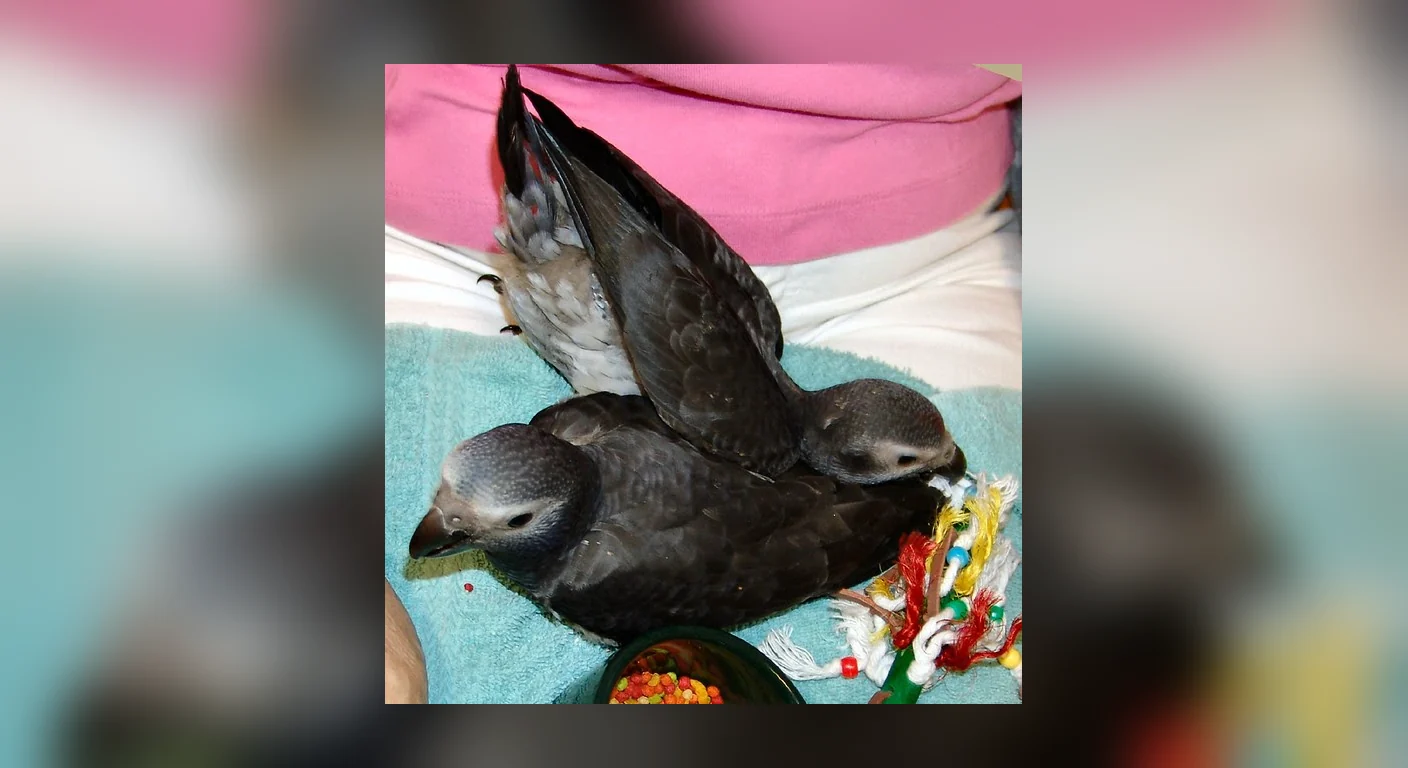
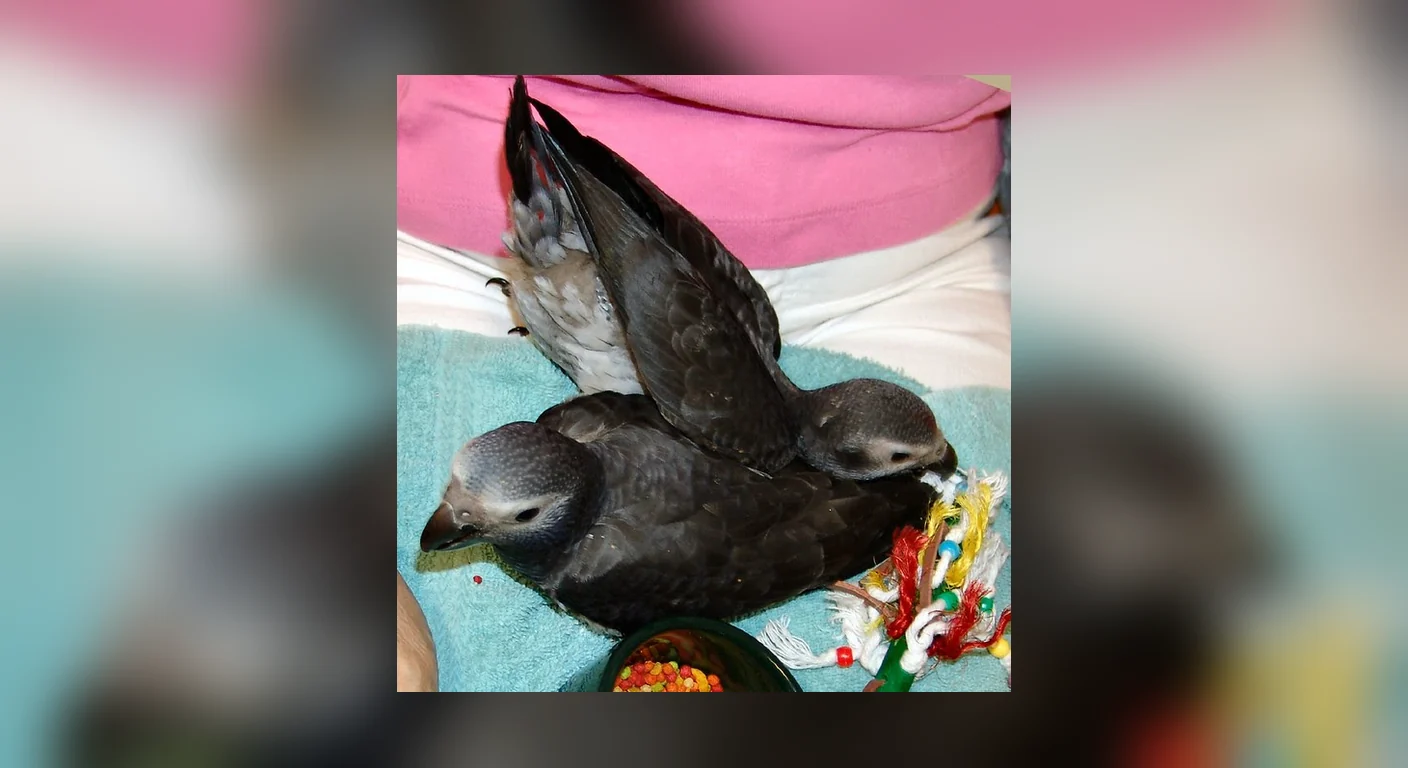
feat(images): distinct taller mobile frame for bird-portrait OG photos (.og-tall full-bleed 4:5, dual-safe blur-fill) + lock it as the standing default for all for-sale/comparison builds
- reframe_og.py: --mobcrop 4:5 makes subject dual-safe (survives desktop 16:9 AND mobile 4:5)
- 3 Timneh portraits regenerated dual-safe; .og-tall mobile full-bleed 4:5 (no h-scroll, verified)
- IMAGE-DESIGNS.md §7 + for-sale skill: LOCKED default OG pipeline for future builds

Changed region(s): [[0.25, 0.0625, 0.75, 0.9375], [0.5625, 0.3125, 0.6562, 0.3438]]

diff --git a/scripts/reframe_og.py b/scripts/reframe_og.py
@@ -23,11 +23,11 @@ from PIL import Image, ImageOps, ImageFilter, ImageEnhance
 
 def load(p): return Image.open(p).convert("RGB")
 
-def blurfill(im, W, H, blur):
+def blurfill(im, W, H, blur, fgw, fgh):
     bg = ImageOps.fit(im, (W, H), Image.LANCZOS)               # cover
     bg = bg.filter(ImageFilter.GaussianBlur(blur))
     bg = ImageEnhance.Brightness(bg).enhance(0.92)             # settle it behind the subject
-    fg = im.copy(); fg.thumbnail((W, H), Image.LANCZOS)        # contain, full height
+    fg = im.copy(); fg.thumbnail((fgw, fgh), Image.LANCZOS)    # contain within the subject-safe box
     canvas = bg.copy()
     canvas.paste(fg, ((W - fg.width) // 2, (H - fg.height) // 2))
     return canvas
@@ -72,9 +72,16 @@ def main():
     ap.add_argument("--blur", type=int, default=30)
     ap.add_argument("--sib", default=""); ap.add_argument("--sibw", type=int, default=760); ap.add_argument("--sibh", type=int, default=415)
     ap.add_argument("--maxkb", type=int, default=95)
+    # dual-safe: constrain the sharp subject so a later mobile 4:5 cover crop (central 4/5*H wide)
+    # never clips it. Default full box; pass --mobcrop 4:5 to auto-set, or --fgmaxw explicitly.
+    ap.add_argument("--mobcrop", default=""); ap.add_argument("--fgmaxw", type=int, default=0)
     a = ap.parse_args()
+    fgw, fgh = a.w, a.h
+    if a.fgmaxw: fgw = a.fgmaxw
+    elif a.mobcrop:
+        rw, rh = (int(x) for x in a.mobcrop.split(":")); fgw = int(a.h * rw / rh)
     im = load(a.src)
-    fn = {"blurfill": lambda: blurfill(im, a.w, a.h, a.blur),
+    fn = {"blurfill": lambda: blurfill(im, a.w, a.h, a.blur, fgw, fgh),
           "contain":  lambda: contain(im, a.w, a.h),
           "topcover": lambda: topcover(im, a.w, a.h)}[a.style]
     out = fn()

diff --git a/.claude/skills/cag-for-sale-page-builder/SKILL.md b/.claude/skills/cag-for-sale-page-builder/SKILL.md
@@ -89,7 +89,8 @@ Link-First anchors (sentence START, never mid/end; branded ACTION anchors on CTA
 - **Dial TOC (desktop) + jump-rail (mobile)** — same mechanics as comparison pages, NEW for-sale style (distinct accent/motif; scroll-margin offset for the mobile rail; `scroll-behavior: auto`).
 - **TOC + KeyTakeaway** — 3 breeder-approved NEW designs each (picked from 5), completely different from cag-toc-v1/v2/v3 + cag-key-takeaway-v2.
 - **Orange stacking tables** — the 5-parrot table set (Congo/Timneh/Macaw/Cockatoo/Amazon) added to the required orange designs; stack on mobile like the comparison cluster; species markers use `/emoji/cag-congo.png` + `/emoji/cag-timneh.png` imgs — **NEVER 🦜**.
-- **In-body images** — uniform `.sec-img.inf-img` 760px 16:9 box for EVERY OG photo AND infographic (per-image `object-position`, <100 KB WebP + `-760.webp` sibling + srcset). **Every H2, H3, and key H4 gets an image** (OG or infographic/AI). Rule 50b alt rotation — no two images share an alt.
+- **In-body images** — uniform `.sec-img.inf-img` 760px 16:9 box for EVERY OG photo AND infographic (<100 KB WebP + `-760.webp` sibling + srcset). **Every H2, H3, and key H4 gets an image** (OG or infographic/AI). Rule 50b alt rotation — no two images share an alt.
+  - **OG-photo framing (LOCKED default — do NOT cover-crop a portrait with a focal point; that cuts heads):** bake single-bird/pair portrait photos with `scripts/reframe_og.py --style blurfill --mobcrop 4:5` from the ORIGINAL master (in `assets/1WORKING-ON/FOR-SALE-PAGES/.../<BIRD>/`), tag `<img class="sec-img og-photo og-tall">`, and ship the mobile full-bleed 4:5 rule (`.sec-img.og-tall{width:100vw;margin-left:calc(50% - 50vw);aspect-ratio:4/5;border-radius:0}`). Desktop stays the uniform 16:9 box; mobile gets the distinct taller full-bleed frame; the subject is dual-safe so it is never clipped at either width. Wide/scene/infographic images stay standard 16:9 / mobile 5:4. Full spec + named Styles A/B/C/E/H: **`IMAGE-DESIGNS.md §7`**.
 - **Seam divider** — footer-logo divider, a for-sale-specific variant style, 4–8 per page, decorative alt="" + lazy + CLS dims.
 - **Sidebar** — NO page-level sidebar (breeder-ratified recommendation); Avail-B sticky-filter used only as a section-level component inside available-birds sections; sticky mobile CTA bar covers persistent-CTA needs.
 - **Stale-fact reconciliation on ALL kit intake (binding):** kit copy says Appendix II → **always CITES Appendix I**; fake pairs (Bella/Oliver/Rosie/Max) → real birds/pairs only (ask breeder per-bird parentage); fake ratings/counts (4.97 · 184) → real 4.9 · 52; "3-year guarantee" → the real guarantee per Ledger; fake phone → real NAP from credentials.md; 🦜 → cag-congo/cag-timneh imgs; kit palette → DESIGN.md tokens + AA clay variants.

diff --git a/skills/cag-for-sale-page-builder.md b/skills/cag-for-sale-page-builder.md
@@ -89,7 +89,8 @@ Link-First anchors (sentence START, never mid/end; branded ACTION anchors on CTA
 - **Dial TOC (desktop) + jump-rail (mobile)** — same mechanics as comparison pages, NEW for-sale style (distinct accent/motif; scroll-margin offset for the mobile rail; `scroll-behavior: auto`).
 - **TOC + KeyTakeaway** — 3 breeder-approved NEW designs each (picked from 5), completely different from cag-toc-v1/v2/v3 + cag-key-takeaway-v2.
 - **Orange stacking tables** — the 5-parrot table set (Congo/Timneh/Macaw/Cockatoo/Amazon) added to the required orange designs; stack on mobile like the comparison cluster; species markers use `/emoji/cag-congo.png` + `/emoji/cag-timneh.png` imgs — **NEVER 🦜**.
-- **In-body images** — uniform `.sec-img.inf-img` 760px 16:9 box for EVERY OG photo AND infographic (per-image `object-position`, <100 KB WebP + `-760.webp` sibling + srcset). **Every H2, H3, and key H4 gets an image** (OG or infographic/AI). Rule 50b alt rotation — no two images share an alt.
+- **In-body images** — uniform `.sec-img.inf-img` 760px 16:9 box for EVERY OG photo AND infographic (<100 KB WebP + `-760.webp` sibling + srcset). **Every H2, H3, and key H4 gets an image** (OG or infographic/AI). Rule 50b alt rotation — no two images share an alt.
+  - **OG-photo framing (LOCKED default — do NOT cover-crop a portrait with a focal point; that cuts heads):** bake single-bird/pair portrait photos with `scripts/reframe_og.py --style blurfill --mobcrop 4:5` from the ORIGINAL master (in `assets/1WORKING-ON/FOR-SALE-PAGES/.../<BIRD>/`), tag `<img class="sec-img og-photo og-tall">`, and ship the mobile full-bleed 4:5 rule (`.sec-img.og-tall{width:100vw;margin-left:calc(50% - 50vw);aspect-ratio:4/5;border-radius:0}`). Desktop stays the uniform 16:9 box; mobile gets the distinct taller full-bleed frame; the subject is dual-safe so it is never clipped at either width. Wide/scene/infographic images stay standard 16:9 / mobile 5:4. Full spec + named Styles A/B/C/E/H: **`IMAGE-DESIGNS.md §7`**.
 - **Seam divider** — footer-logo divider, a for-sale-specific variant style, 4–8 per page, decorative alt="" + lazy + CLS dims.
 - **Sidebar** — NO page-level sidebar (breeder-ratified recommendation); Avail-B sticky-filter used only as a section-level component inside available-birds sections; sticky mobile CTA bar covers persistent-CTA needs.
 - **Stale-fact reconciliation on ALL kit intake (binding):** kit copy says Appendix II → **always CITES Appendix I**; fake pairs (Bella/Oliver/Rosie/Max) → real birds/pairs only (ask breeder per-bird parentage); fake ratings/counts (4.97 · 184) → real 4.9 · 52; "3-year guarantee" → the real guarantee per Ledger; fake phone → real NAP from credentials.md; 🦜 → cag-congo/cag-timneh imgs; kit palette → DESIGN.md tokens + AA clay variants.

diff --git a/IMAGE-DESIGNS.md b/IMAGE-DESIGNS.md
@@ -137,10 +137,26 @@ just replace the file.
 | **H** | Duo Strip | (CSS: 2× `.h-im`) | Elad + Evie sibling / pair shots, two portraits side-by-side | ✅ full |
 
 **Mobile counterparts** (full-bleed, taller aspect): **mA** 4:5 top-cover · **mB** 4:5 contain ·
-**mC** 4:5 blur-fill *(matches B)* · **mG** stacked two-up · **mH** 3:4 top-cover. A blur-fill (B)
-file already prevents head cutoffs on mobile under the current 5:4 crop; for a *distinct taller*
-mobile frame, set the page's mobile `.og-photo{aspect-ratio:4/5}` **only once every OG photo on that
-page is a blur-fill/contain file** (otherwise the portrait crop re-cuts un-reframed photos).
+**mC** 4:5 blur-fill *(matches B)* · **mG** stacked two-up · **mH** 3:4 top-cover.
+
+### STANDING DEFAULT — every for-sale / comparison page build MUST use this (locked 2026-07-22)
+This is now the **default OG-photo pipeline for all future page builds** — apply it without asking:
+
+1. **Single-bird / pair portrait OG photos** → bake with `reframe_og.py --style blurfill --mobcrop 4:5`
+   (the `--mobcrop 4:5` makes the sharp subject **dual-safe**: fits within BOTH the desktop 16:9 box
+   AND a mobile 4:5 crop, so it is never clipped at either width), then tag the `<img>`
+   `class="sec-img og-photo og-tall"`. CSS: desktop = the uniform 16:9 `.sec-img` box (unchanged);
+   mobile (`≤900px`) = **full-bleed edge-to-edge 4:5** —
+   `.sec-img.og-tall{width:100vw;max-width:100vw;margin-left:calc(50% - 50vw);aspect-ratio:4/5;border-radius:0}`
+   (page root needs `overflow-x:clip` — already on `.for-sale`/`.timneh` wrappers). This gives the
+   **distinct taller mobile design** the breeder wants while desktop keeps the uniform rectangle.
+2. **Wide / scene / documentation / infographic images** → keep the standard `.sec-img`(`.inf-img`)
+   16:9 box; on mobile they stay `.og-photo` 5:4 (do NOT force them into 4:5 — a landscape subject in
+   a tall frame reads as a small photo floating in blur).
+3. **NEVER** cover-crop a portrait master into 16:9 with a focal-point `fit(centering=...)` — that is
+   the head-cutoff bug this whole section exists to kill.
+
+Reference implementation: `/timneh-african-grey-for-sale/` (on-hand-playful, siblings, bath-play).
 
 **Defaults:** single-bird OG photo → **B**; wide/infographic-like → **A**; pair/sibling → **H** (or B
 if it's one photo of both birds); punchy fill → **E**. Applied to the Timneh page 2026-07-22:
